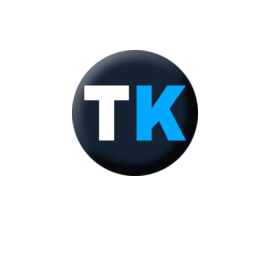
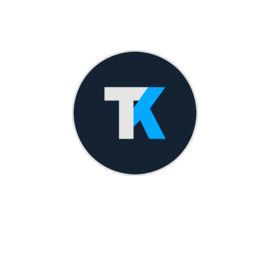
its done!

Changed region(s): [[0.2667, 0.1778, 0.7407, 0.6519], [0.2963, 0.5333, 0.3259, 0.563]]

diff --git a/src/components/Modal.jsx b/src/components/Modal.jsx
@@ -1,19 +1,103 @@
 import React, { useState, useEffect } from 'react';
 import { createSanitizedHtml, getFormatLabel } from "../helpers";
+import { mediaProgressMutation } from "../queries";
 import useMediaQuery from "../hooks/useMediaQuery";
 import Accordion from "./Accordion/Accordion";
+import { RiCloseCircleFill } from "react-icons/ri";
+import { url } from "../App";
 const modalCSS = "w-full h-full top-0 left-0 fixed"
-//! TODO: 
-// ON COUNT CHANGE, 2 BUTTON POPS UP BELOW EPISODE COUNT TO COMMIT CHANGES.
-// 1 BUTTON WILL COMMIT CHANGES NO TWEETS AND 1 BUTTON WILL COMMIT CHANGES AND TWEET UPDATE.
 
-const Modal = ({ modalMedia, closeModal }) => {
+const Modal = ({ modalMedia, closeModal, token, fetchUpdates }) => {
   const isMobile = useMediaQuery('(max-width: 640px)')
   const [hovered, setHovered] = useState(false)
-  const [originalProgress, setOriginalProgress] = useState(modalMedia.progress)
-  const [newProgress, setNewProgress] = useState(null)
+  const originalProgress = modalMedia.progress
+  const [newProgress, setNewProgress] = useState(modalMedia.progress)
+  const [activity, setActivity] = useState(null)
   
+  const handleIncrement = () => {
+    setNewProgress(prev => {
+      const updatedProgress = (prev === modalMedia.media.episodes || prev === modalMedia.media.chapters) ? prev : prev + 1
+      getActivity(updatedProgress)
+      console.log(activity)
+      return updatedProgress
+    })
+  }
+
+  const handleInputChange = (e) => {
+    const val = e.target.value;
+
+    // Remove any non-digit characters except for the empty string
+    const numericVal = val.replace(/[^0-9]/g, '');
+
+    
+
+    // Update the state and trigger activity update only if it's a valid numeric input
+    
+      setNewProgress(numericVal);
+      getActivity(numericVal);
+    
+  }
+
+  const handleBlur = (e) => {
+    if (e.target.value === "") {
+        setNewProgress(originalProgress)
+    }
+  }
+  const handleMediaUpdate = async () =>{
+    const options = {
+      method: 'POST',
+      headers: {
+        'Authorization': 'Bearer ' + token,
+        'Content-Type': 'application/json',
+        'Accept': 'application/json',
+      },
+      body: JSON.stringify({
+        query: mediaProgressMutation,
+        variables: {
+          mediaId: modalMedia.media.id,
+          progress: newProgress,
+          status: newProgress === modalMedia.media.episodes || newProgress === modalMedia.media.chapters ? "COMPLETED" : modalMedia.status
+        }
+      })
+    }
+    try {
+      const response = await fetch(url, options);
+      const data = await response.json();
+      console.log(data);
+      if (response.ok && data) {
+        fetchUpdates()
+      } else {
+        console.error('Mutation failed', data);
+      }
+    } catch (error) {
+      console.error('Request failed', error);
+    }
+  }
+  function getActivity(updatedProgress){
+    const formatLabel = getFormatLabel(modalMedia.media.format)
+    const watchedOrRead = formatLabel === "Episode" ? "watched" : "read"
+    const maxProgress = formatLabel === "Episode" ? modalMedia?.media?.episodes : modalMedia.media.chapters
+    const watchable = formatLabel === "Episode"
+    const title = modalMedia?.media?.title?.english || modalMedia?.media?.title?.romaji
+    const mediaUrl = modalMedia.media.siteUrl
+    if (updatedProgress === originalProgress + 1) {
+      // Show single progress entry
+      setActivity(`I ${watchedOrRead} ${formatLabel.toLowerCase()} ${updatedProgress} of ${title}\nvia @ToukouApp\n${mediaUrl}`);
+    } else if (originalProgress === maxProgress) {
+      // Finished watching/reading
+      setActivity(`I finished ${watchable ? 'watching' : 'reading'} ${title}\nvia @ToukouApp\n${mediaUrl}`);
+    } else if (updatedProgress < originalProgress) {
+      // For reverse entries
+      setActivity(`I ${watchedOrRead} ${formatLabel.toLowerCase()} ${updatedProgress} of ${title}\nvia @ToukouApp\n${mediaUrl}`);
+    } else if (updatedProgress > originalProgress) {
+      // Show range if increment is greater than 1
+      setActivity(`I ${watchedOrRead} ${formatLabel.toLowerCase()} ${originalProgress + 1} - ${updatedProgress} of ${title}\nvia @ToukouApp\n${mediaUrl}`);
+    }
+  }
+  const progressChanged = newProgress !== originalProgress
+
   useEffect(()=>{
+    console.log(modalMedia)
     document.body.classList.add('no-scroll')
     return () => {
         document.body.classList.remove('no-scroll')
@@ -26,10 +110,10 @@ const Modal = ({ modalMedia, closeModal }) => {
     <div className={`${modalCSS} overflow-x-hidden`}>
       {/* OVERLAY */}
       <div className={`${modalCSS} bg-[rgba(49,49,49,0.8)] overflow-hidden`} onClick={isMobile ? closeModal : null}/>
-
-      <div className="modal-content px-10 py-5  w-11/12 md:w-11/12 lg:w-10/12 xl:w-6/12 rounded-xl mx-auto mt-10 border-b-2 border-l-2" style={{borderColor: modalMedia.media.coverImage.color}}>
+      {/* MODAL CONTENT */}
+      <div className="modal-content max-h-[75vh] md:max-h-[55vh] xl:max-h-[75vh] px-10 py-5  w-11/12 md:w-11/12 lg:w-10/12 xl:w-6/12 rounded-xl mx-auto mt-10 border-b-2 border-l-2" style={{borderColor: modalMedia.media.coverImage.color, scrollbarColor: `${modalMedia.media.coverImage.color} #1a2b4a`}}>
         <div className="flex justify-end">
-          <button onClick={closeModal} className="font-Title text-2xl text-gray-500 hover:text-[#02a9ff] duration-300">X</button>
+          <RiCloseCircleFill className={`close-btn scale-150 duration-200 hover:cursor-pointer`} style={{'--default-color': modalMedia.media.coverImage.color}} onClick={closeModal}/>
         </div>
         <div className="flex flex-col md:flex-row justify-start items-center md:items-start rounded-md" >
           {/* IMAGE DIV */}
@@ -42,27 +126,46 @@ const Modal = ({ modalMedia, closeModal }) => {
           </div>
           <div className="flex flex-col justify-center items-center md:justify-start md:items-start w-full px-2">
             {/* Titles*/}
-            <h1 className="font-Mono text-2xl text-neutral-200 text-center mb-1">{modalMedia?.media?.title?.english ? modalMedia?.media?.title?.english : modalMedia?.media?.title?.romaji}</h1>
+            <h1 className="font-Mono text-2xl text-neutral-200 text-center mb-1">{modalMedia?.media?.title?.english || modalMedia?.media?.title?.romaji}</h1>
             <h5 className="font-Japanese text-sm font-light mb-4 tracking-wide text-center" style={{color: modalMedia.media.coverImage.color}}>{modalMedia?.media?.title?.native}</h5>
             {/* PROGRESS COUNT */}
             <div className="flex items-center">
               <h4 className="font-Mono mr-2" >{getFormatLabel(modalMedia.media.format)} Count:</h4>
-              <input type="number" value={originalProgress}  className="text-neutral-200 w-12 text-center outline-none bg-AniListDarkBlue rounded-md mr-1" style={{caretColor: modalMedia.media.coverImage.color}}/>
+              <input type="number"  onBlur={handleBlur} value={parseInt(newProgress)} onChange={handleInputChange}  className="text-neutral-200 w-12 text-center outline-none bg-AniListDarkBlue rounded-md mr-1" style={{caretColor: modalMedia.media.coverImage.color}}/>
               <button 
                 className="font-Mono bg-AniListDarkBlue px-2 rounded-md duration-200" 
                 onMouseEnter={()=> setHovered(true)} 
                 onMouseLeave={()=> setHovered(false)}
-                onClick={()=> setOriginalProgress(prev => (prev !== null ? prev + 1 : originalProgress) )}
+                onClick={handleIncrement}
                 style={{backgroundColor: hovered ? modalMedia.media.coverImage.color : "initial"}}>
                 +
               </button>
             </div>
+            {
+              progressChanged && (
+                <div className="mt-4 flex justify-center">
+                  <a href={`https://twitter.com/intent/tweet?text=${encodeURIComponent(activity)}`} target="_blank" onClick={handleMediaUpdate}>
+                    <button 
+                      className="bg-green-500 hover:bg-green-700 text-white px-3 py-2 rounded-md duration-300 mr-2"
+                    >
+                      Commit Changes and Tweet
+                    </button>
+                  </a>
+                  <button 
+                    className="bg-AniListDarkBlue hover:bg-AniListBlue text-white px-3 py-2 rounded-md duration-300 mr-2"
+                    onClick={handleMediaUpdate}
+                  >
+                    Commit Changes
+                  </button>
+                </div>
+              )
+            }
             <Accordion modalMediaColor={modalMedia.media.coverImage.color} title="Synopsis" content={createSanitizedHtml(modalMedia.media.description)}/>
           </div>
         </div>
       </div>
     </div>
-  );
-};
+  )
+}
 
-export default Modal;
+export default Modal

diff --git a/src/components/Accordion/Accordion.jsx b/src/components/Accordion/Accordion.jsx
@@ -7,8 +7,8 @@ const Accordion = ({ title, content, modalMediaColor, faq }) => {
 
     return (
         <div className={`w-full ${faq ? "mb-3" : ""}`}>
-            <div className="flex items-center justify-between cursor-pointer py-2 border-b border-AniListBlue" style={{borderColor: modalMediaColor || "#02a9ff"}} onClick={toggleAccordion}>
-                <h2 className="font-Mono text-lg text-neutral-200">{title}</h2>
+            <div className="flex items-center justify-between cursor-pointer py-2 border-b" style={{borderColor: modalMediaColor || "#02a9ff"}} onClick={toggleAccordion}>
+                <h2 className="font-Mono text-lg text-neutral-200 select-none">{title}</h2>
                 <svg 
                 className={`w-5 h-5 transition-transform duration-300 ${isOpen ? 'transform rotate-180' : ''}`} 
                 xmlns="http://www.w3.org/2000/svg" 
@@ -23,7 +23,7 @@ const Accordion = ({ title, content, modalMediaColor, faq }) => {
                 </svg>
             </div>
         {isOpen && (
-          <div className={`accordion-content py-2 ${faq? "text-neutral-300" : "text-neutral-200"} font-Roboto font-light transition-all duration-500 ease-in-out ${isOpen ? 'opacity-100 max-h-screen' : 'opacity-0 max-h-0 overflow-hidden'}`}>
+          <div className={` mt-1 accordion-content ${isOpen ? 'open' : ''} ${faq ? "text-neutral-300" : "text-neutral-200"} font-Roboto font-light`}>
             {content}
           </div>
         )}

diff --git a/src/App.jsx b/src/App.jsx
@@ -10,7 +10,7 @@ import MangaEntries from "./components/MangaEntries"
 import WelcomeSection from "./components/WelcomeSection"
 import UserButtons from "./components/UserButtons"
 
-const url = 'https://graphql.anilist.co'
+export const url = 'https://graphql.anilist.co'
 export const borderStyles = "p-5 border-t-[#02a9ff] border-r-[#174c66] border-4 rounded-md h-[19rem]"
 // fuwn id: 5678223
 //igor id: 243474
@@ -251,7 +251,7 @@ function App() {
       {loading ? (
         <img src={loadingIcon} className="w-36 mx-auto"/>
       ) : animeRes?.length > 0 ? (
-        <AnimeEntries animeRes={animeRes} blurAdult={blurAdult}/>
+        <AnimeEntries animeRes={animeRes} blurAdult={blurAdult} token={token} fetchUpdates={fetchUpdates}/>
       ) : 
         null
       }
@@ -260,7 +260,7 @@ function App() {
        {loading ? (
         <img src={loadingIcon} className="w-36 mx-auto"/>
       ) : mangaRes?.length > 0 ? (
-        <MangaEntries mangaRes={mangaRes} blurAdult={blurAdult}/>
+        <MangaEntries mangaRes={mangaRes} blurAdult={blurAdult} token={token} fetchUpdates={fetchUpdates}/>
       ) : null}
       
       <Footer/>

diff --git a/src/index.css b/src/index.css
@@ -9,8 +9,6 @@ html{
 body{
   background-color: #0c1522;
   color: rgb(238, 238, 238);
-  scrollbar-width: thin; /* for Firefox */
-  scrollbar-color: #02a9ff #1a2b4a; /* thumb color | track color */
 }
 
 
@@ -29,16 +27,15 @@ body{
   background: linear-gradient(to right, transparent, #eeeeee 50%, transparent)
 }
 
+
 .modal-content {
   position: absolute;
   top: 40%;
   left: 50%;
   transform: translate(-50%, -50%);
   background: #152232;
-  max-height: 75vh;
   overflow-y: auto;
   scrollbar-width: thin;
-  scrollbar-color: #02a9ff #1a2b4a;
   z-index: 50;
 }
 
@@ -48,7 +45,6 @@ body{
 }
 
 .modal-content::-webkit-scrollbar-thumb {
-  background-color: #02a9ff; /* scrollbar color */
   border-radius: 10px;
 }
 
@@ -56,7 +52,12 @@ body{
   background-color: #1a2b4a; /* track color */
   border-radius: 10px;
 }
-
+.close-btn{
+  color: var(--default-color)
+}
+.close-btn:hover{
+  color:#1a2b4a;
+}
 .no-scroll{
   overflow: hidden;
 }

diff --git a/src/components/Footer.jsx b/src/components/Footer.jsx
@@ -1,12 +1,9 @@
 import React from 'react'
-
+import TKLogo from "../assets/TKLogo.png"
 const Footer = () => {
   return (
     <footer className="mt-auto bg-HeaderBG text-neutral-200 py-4 text-center flex items-center justify-around">
-      <div>
-        <h1 className="text-lg md:text-2xl xl:text-4xl tracking-wide font-Title text-neutral-200 select-none">TOU<span className="text-AniListBlue">KOU</span></h1>
-        <h3 className="text-sm md:text-xl tracking-widest font-Japanese font-black mb-1">投<span className="text-AniListBlue">稿</span></h3>
-      </div>
+      <img src={TKLogo} alt="Toukou Logo" className="w-20 select-none" />
       <div className="">
         <a href="https://x.com/ToukouApp" target="_blank">
             <h1 className="mb-2 text-lg md:text-2xl xl:text-3xl font-Roboto font-black hover:text-TwitterBlue duration-200">Twitter</h1>

diff --git a/src/components/AnimeEntries.jsx b/src/components/AnimeEntries.jsx
@@ -4,7 +4,7 @@ import { getStatusLabel, handleTitles} from "../helpers"
 import Modal from "./Modal"
 import { borderStyles } from "../App"
 
-const AnimeEntries = ({animeRes, blurAdult}) => {
+const AnimeEntries = ({animeRes, blurAdult, token, fetchUpdates}) => {
     const [isModalOpen, setModal] = useState(false)
     const [modalMedia, setModalMedia] = useState(null)
     const handleModal = (anime) =>{
@@ -49,7 +49,7 @@ const AnimeEntries = ({animeRes, blurAdult}) => {
             </React.Fragment>
             ))
             }
-            {isModalOpen && <Modal modalMedia={modalMedia} closeModal={()=> setModal(false)}/>}
+            {isModalOpen && <Modal modalMedia={modalMedia} closeModal={()=> setModal(false)} token={token} fetchUpdates={fetchUpdates}/>}
         </>
     )
 }

diff --git a/src/components/MangaEntries.jsx b/src/components/MangaEntries.jsx
@@ -4,7 +4,7 @@ import { getStatusLabel, handleTitles, getMediaStatuslabel} from "../helpers"
 import Modal from "./Modal"
 import { borderStyles } from "../App"
 
-const MangaEntries = ({mangaRes, blurAdult}) => {
+const MangaEntries = ({mangaRes, blurAdult, token, fetchUpdates}) => {
     const [isModalOpen, setModal] = useState(false)
     const [modalMedia, setModalMedia] = useState(null)
     const handleModal = (anime) =>{
@@ -36,7 +36,7 @@ const MangaEntries = ({mangaRes, blurAdult}) => {
             ))
             }
 
-            {isModalOpen && <Modal modalMedia={modalMedia} closeModal={()=> setModal(false)}/>}
+            {isModalOpen && <Modal modalMedia={modalMedia} closeModal={()=> setModal(false)} token={token} fetchUpdates={fetchUpdates}/>}
         </>
     )
 }

diff --git a/src/queries.js b/src/queries.js
@@ -91,6 +91,14 @@ const mangaQuery = `
       }
     }
 }
-
 `
-export { initQuery, animeQuery, mangaQuery }
+
+const mediaProgressMutation = `
+  mutation SaveMediaListEntry($mediaId: Int!, $progress: Int!, $status: MediaListStatus) {
+    SaveMediaListEntry(mediaId: $mediaId, progress: $progress, status: $status) {
+      progress
+    	status
+    }
+  }
+`
+export { initQuery, animeQuery, mangaQuery, mediaProgressMutation }

diff --git a/src/components/Accordion/accordion.css b/src/components/Accordion/accordion.css
@@ -1,11 +1,9 @@
 @keyframes fadeIn {
   from {
     opacity: 0;
-    max-height: 0;
   }
   to {
     opacity: 1;
-    max-height: 1000px; /* or whatever is needed to fit your content */
   }
 }
 
